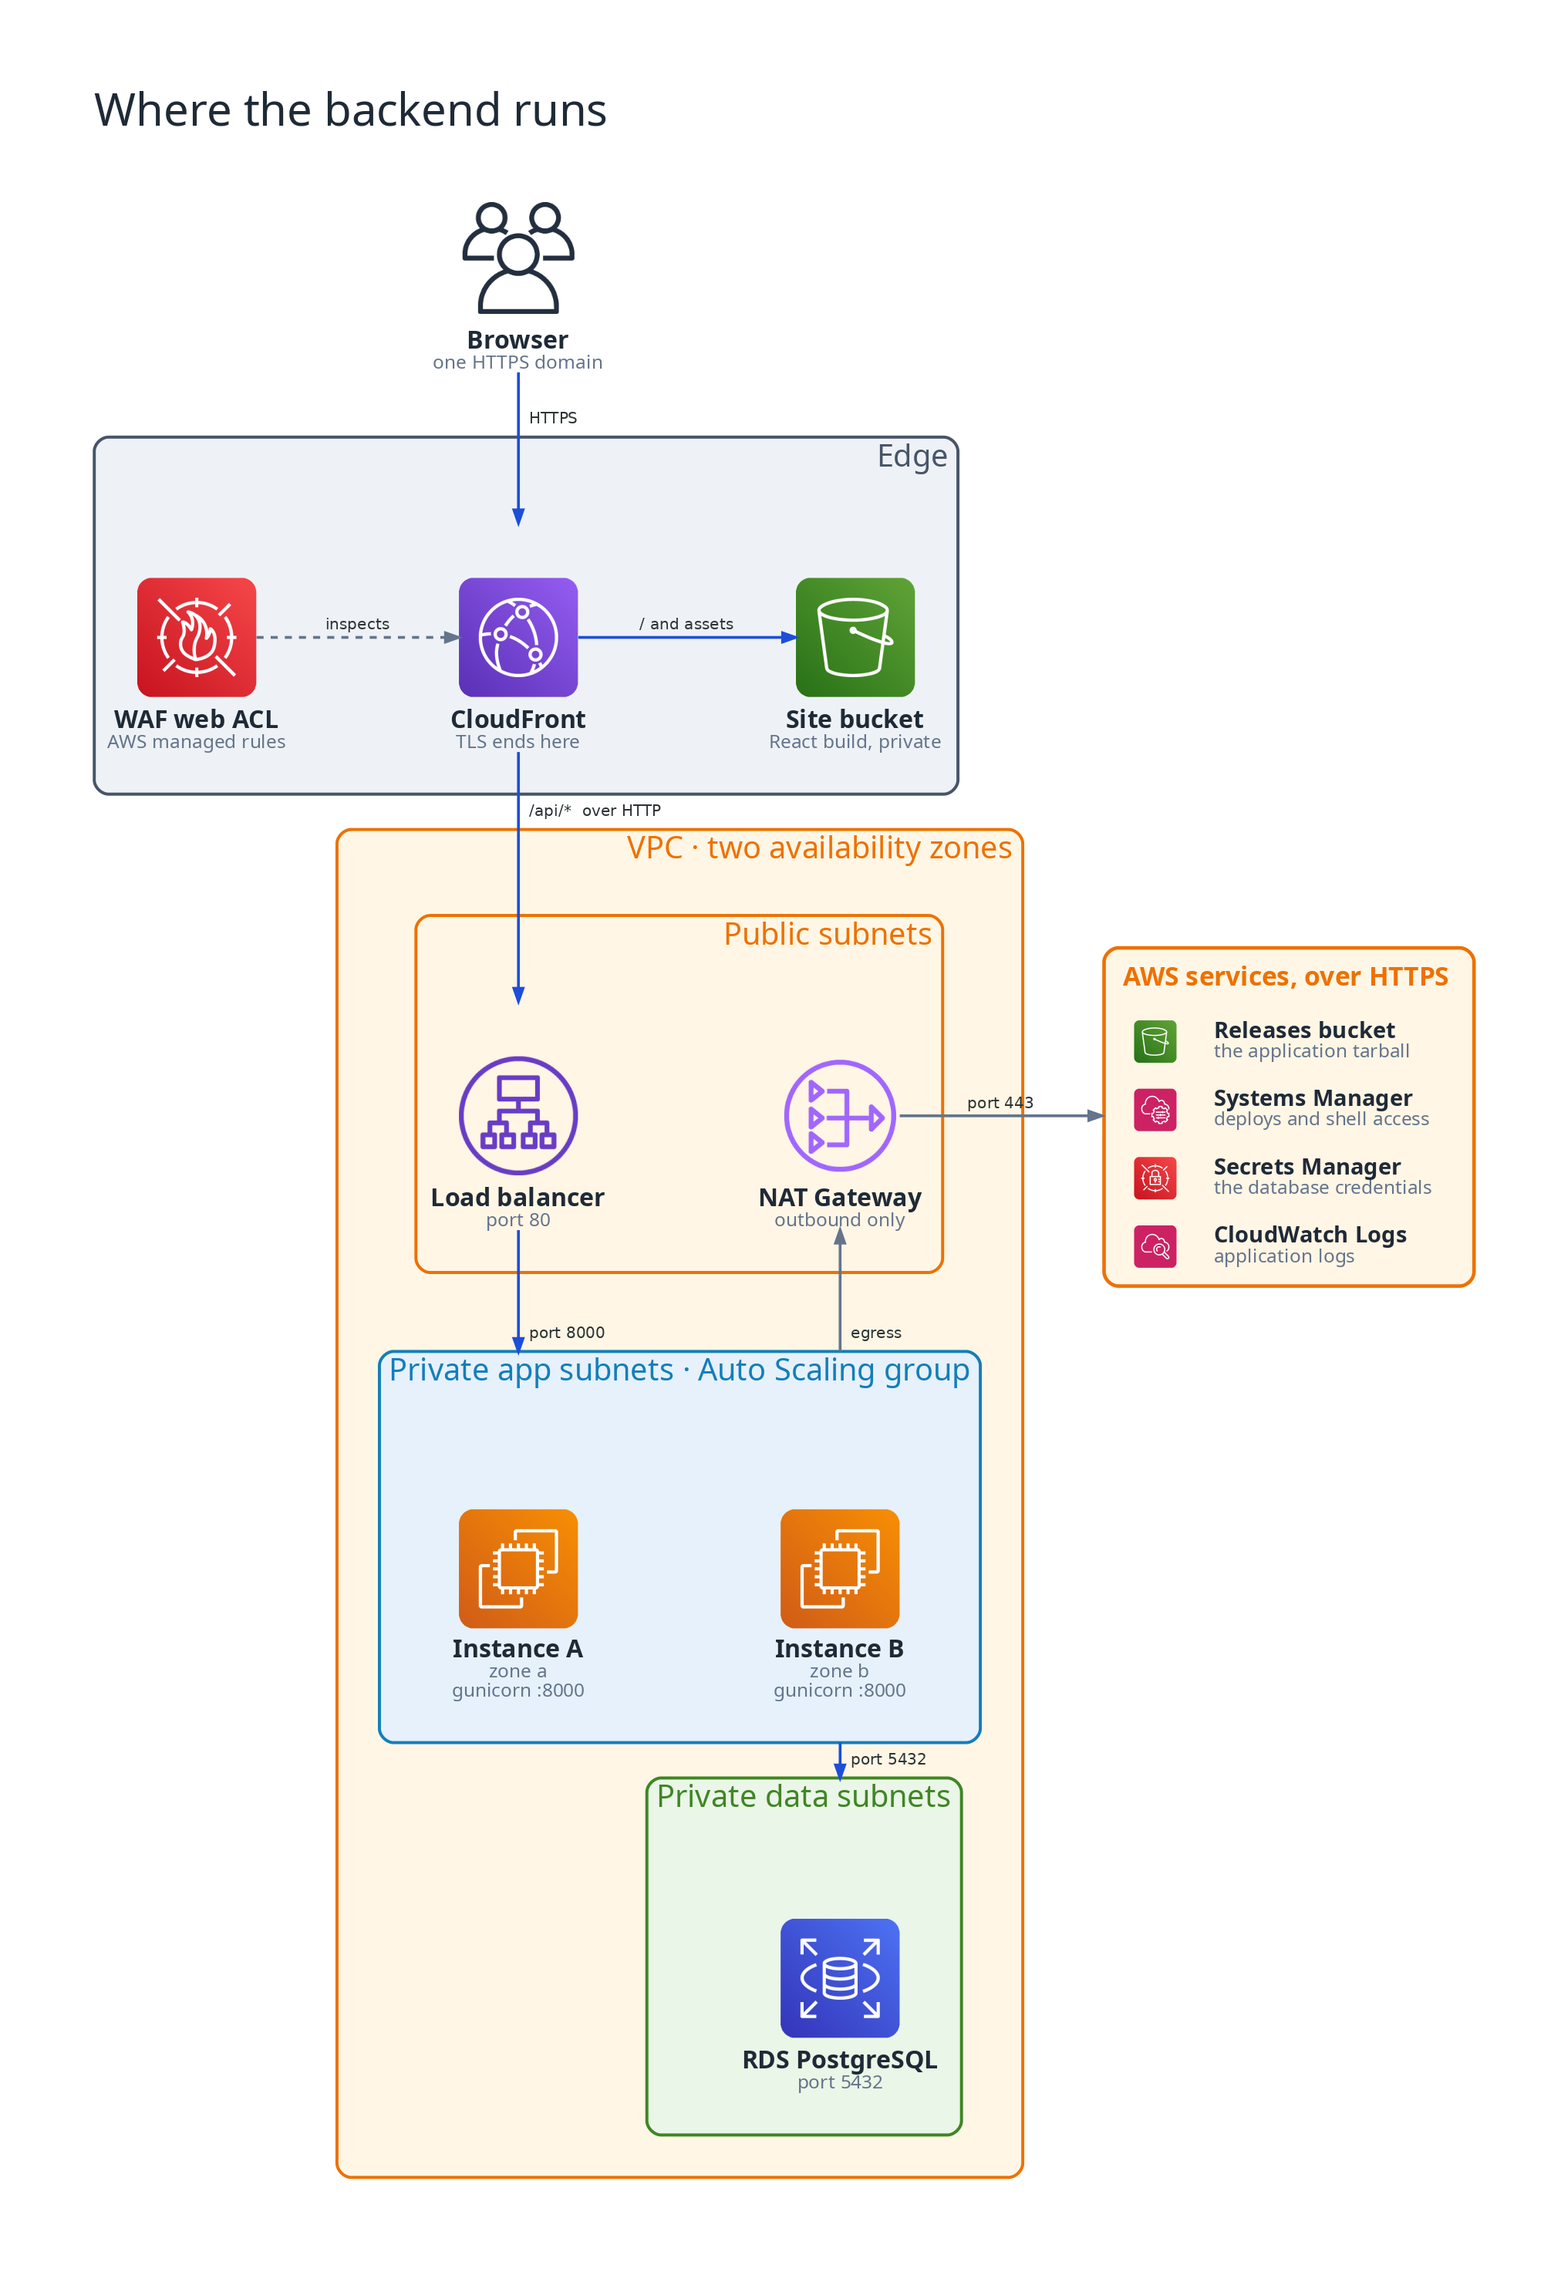
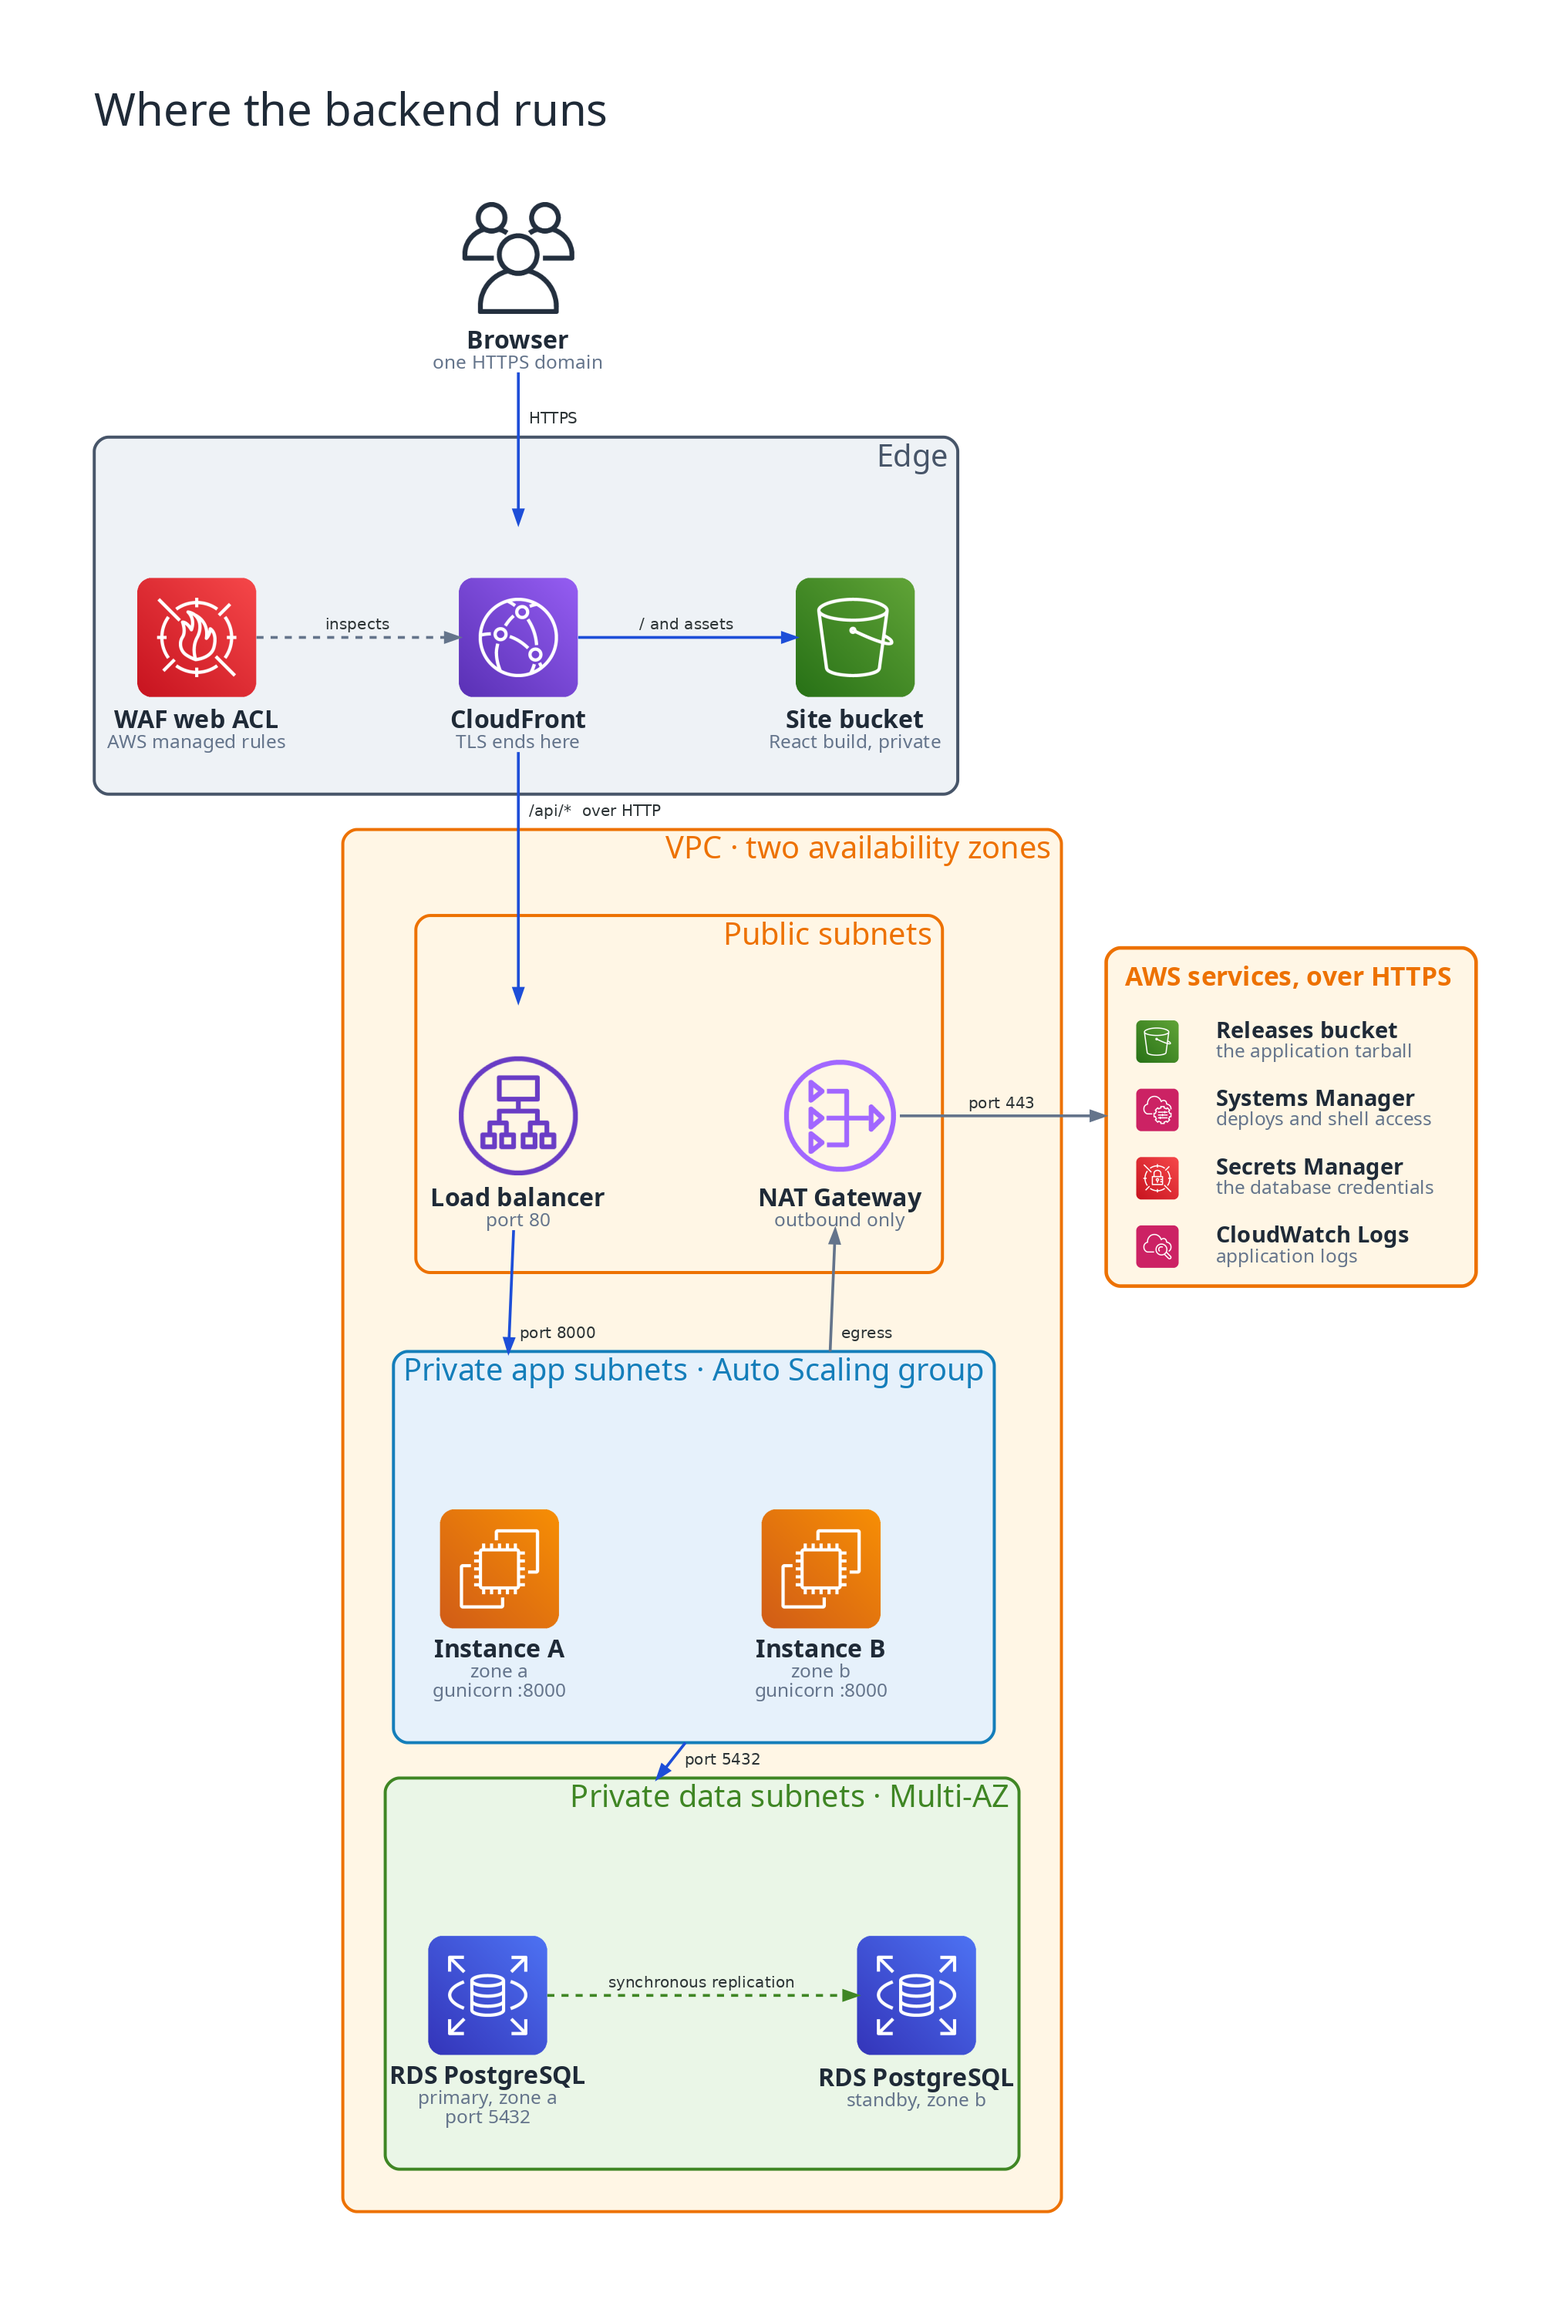
Show the RDS Multi-AZ standby in the backend architecture diagram

diff --git a/docs/diagrams/backend_overview.py b/docs/diagrams/backend_overview.py
@@ -68,8 +68,9 @@ def runtime():
                 a = icon(EC2, "Instance A", "zone a", "gunicorn :8000")
                 b = icon(EC2, "Instance B", "zone b", "gunicorn :8000")
 
-            with box("Private data subnets", "ok", just="r") as data:
-                db = icon(RDS, "RDS PostgreSQL", "port 5432")
+            with box("Private data subnets · Multi-AZ", "ok", just="r") as data:
+                db = icon(RDS, "RDS PostgreSQL", "primary, zone a", "port 5432")
+                db_standby = icon(RDS, "RDS PostgreSQL", "standby, zone b")
 
         services = services_card(
             "AWS services, over HTTPS",
@@ -87,12 +88,13 @@ def runtime():
         cdn >> link("/api/*  over HTTP", FLOW) >> alb
         alb >> link("port 8000", FLOW, lhead=asg.name) >> a
         b >> link("port 5432", FLOW, ltail=asg.name, lhead=data.name) >> db
+        db >> link("synchronous replication", OK, "dashed") >> db_standby
         b >> link("egress", GREY, ltail=asg.name, constraint="false") >> nat
         nat >> link("port 443", GREY, constraint="false") >> services
 
-        for left, right in ((waf, cdn), (cdn, site), (alb, nat), (nat, services), (a, b)):
+        for left, right in ((waf, cdn), (cdn, site), (alb, nat), (nat, services), (a, b), (db, db_standby)):
             left >> Edge(style="invis") >> right
-        for group in ((waf, cdn, site), (alb, nat, services), (a, b)):
+        for group in ((waf, cdn, site), (alb, nat, services), (a, b), (db, db_standby)):
             d.dot.body.append("\t{rank=same; " + "; ".join(f'"{n._id}"' for n in group) + "}")
 
 
